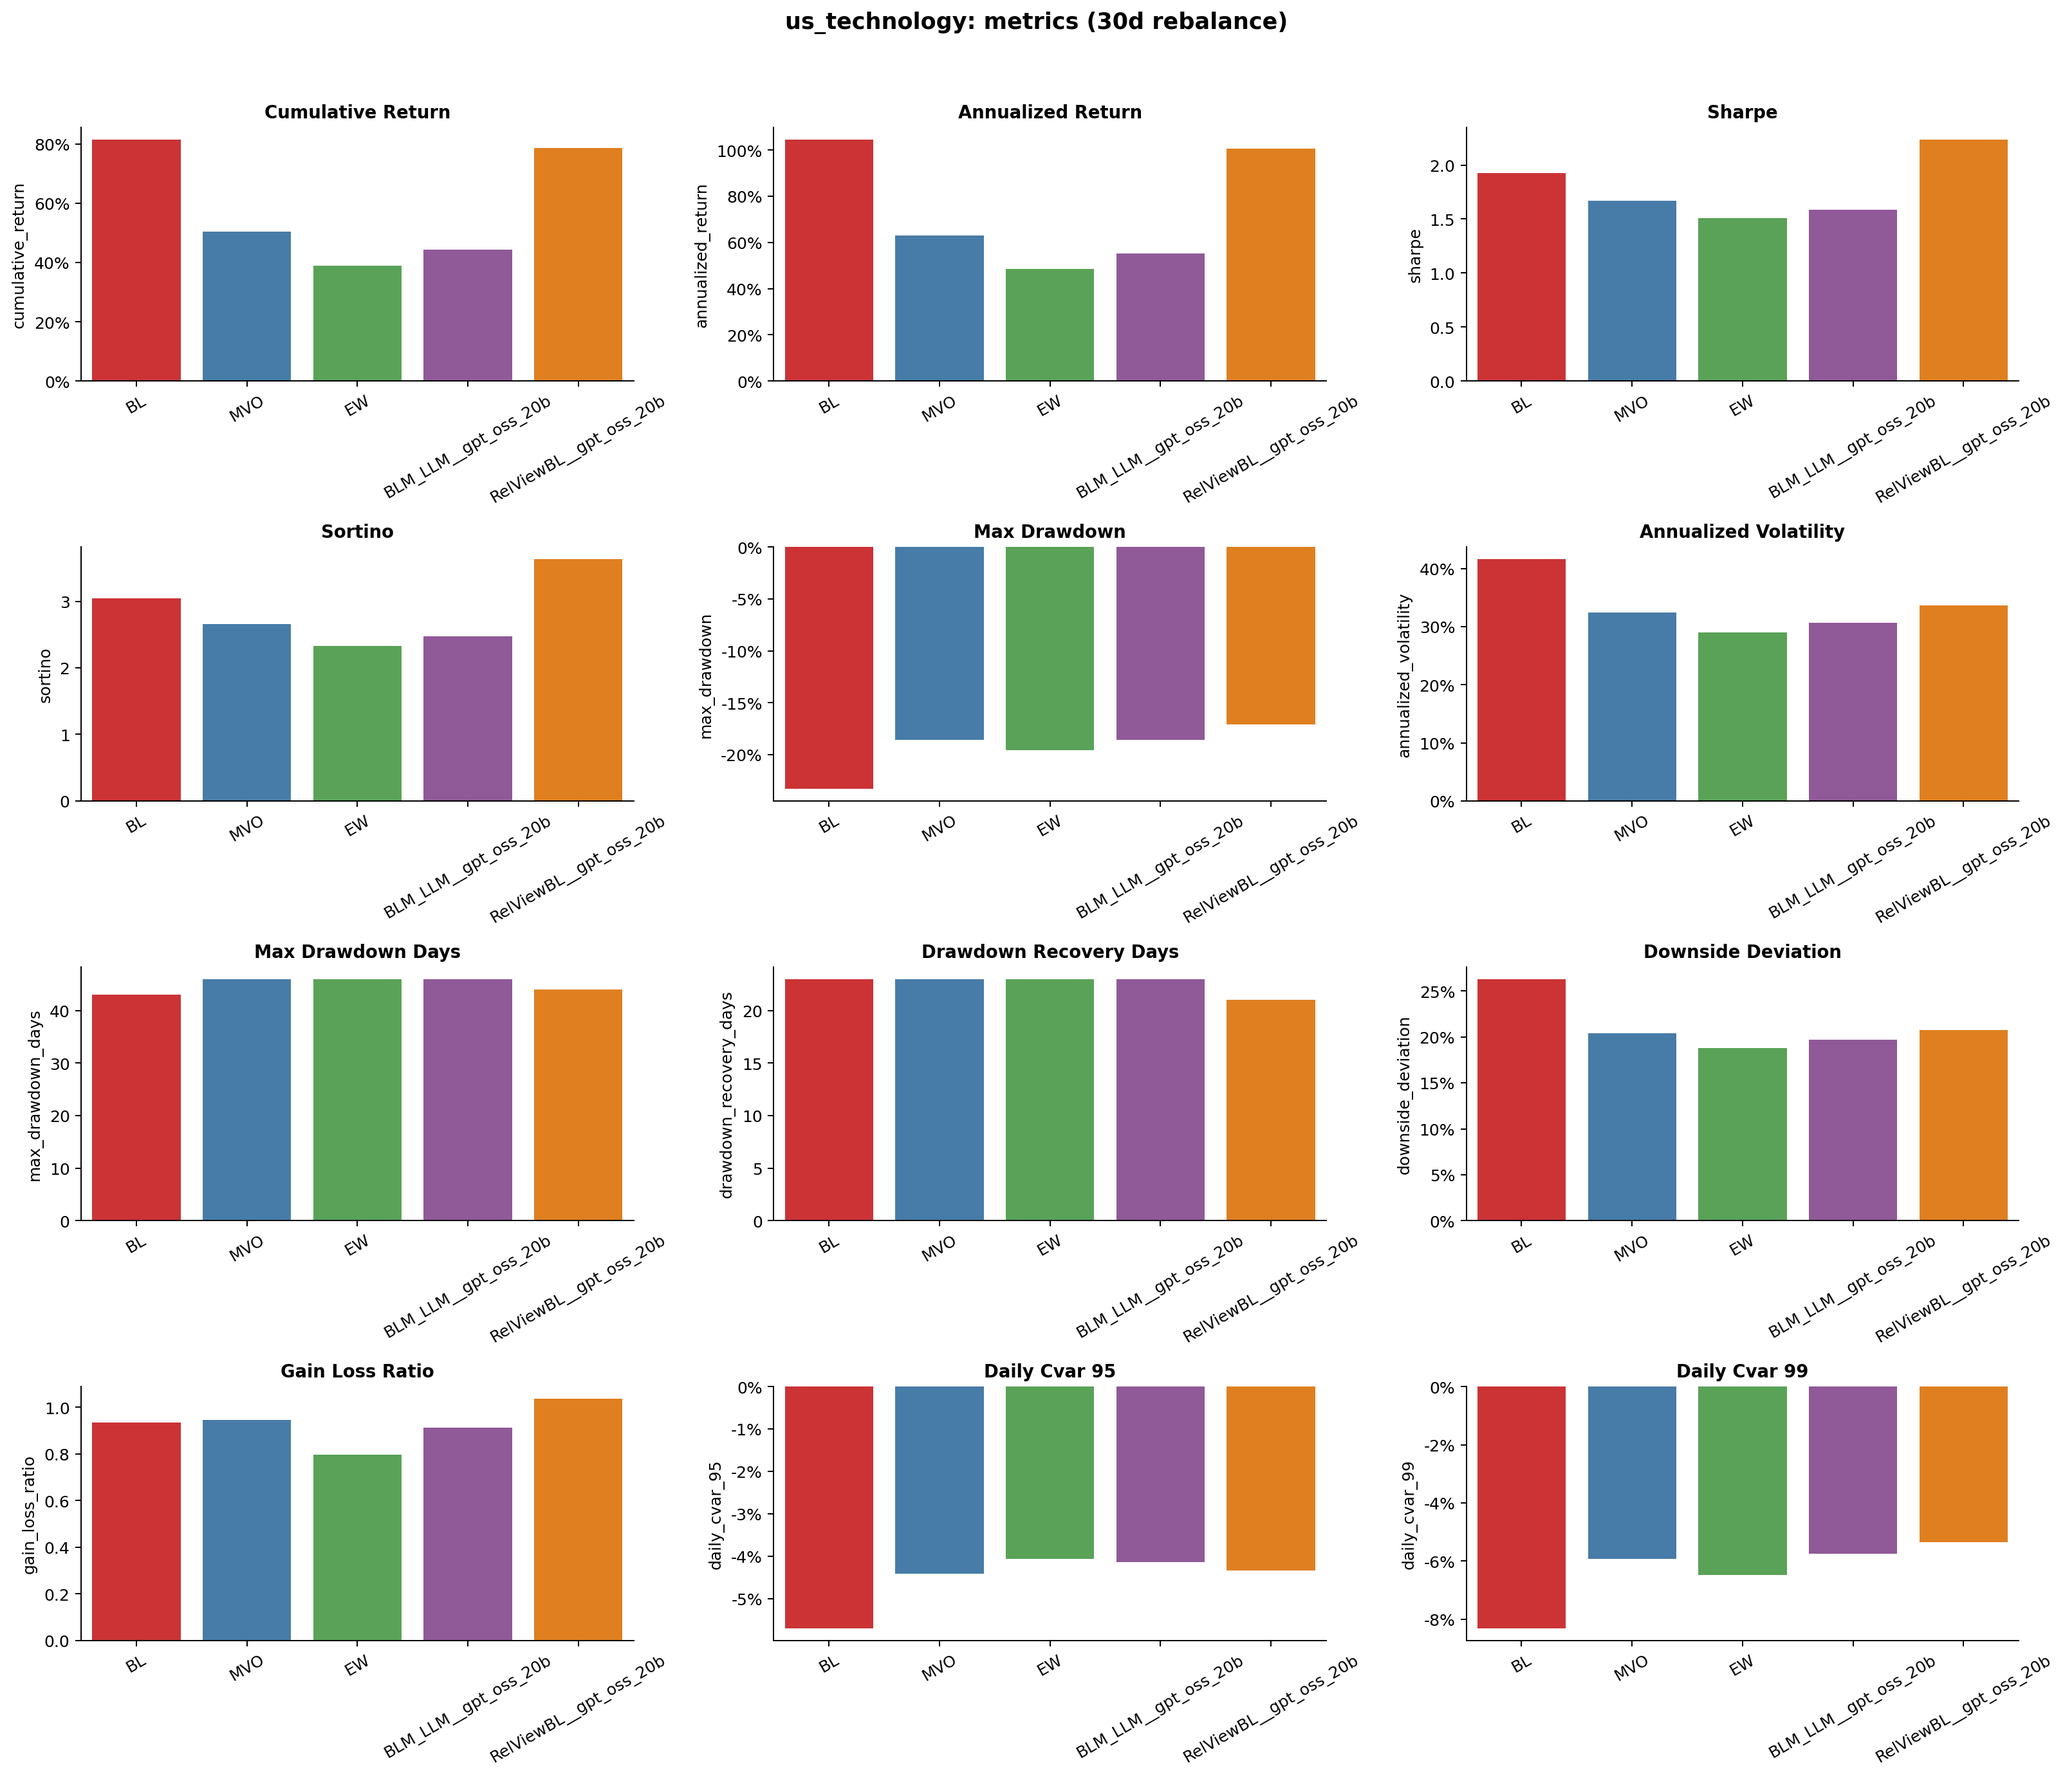
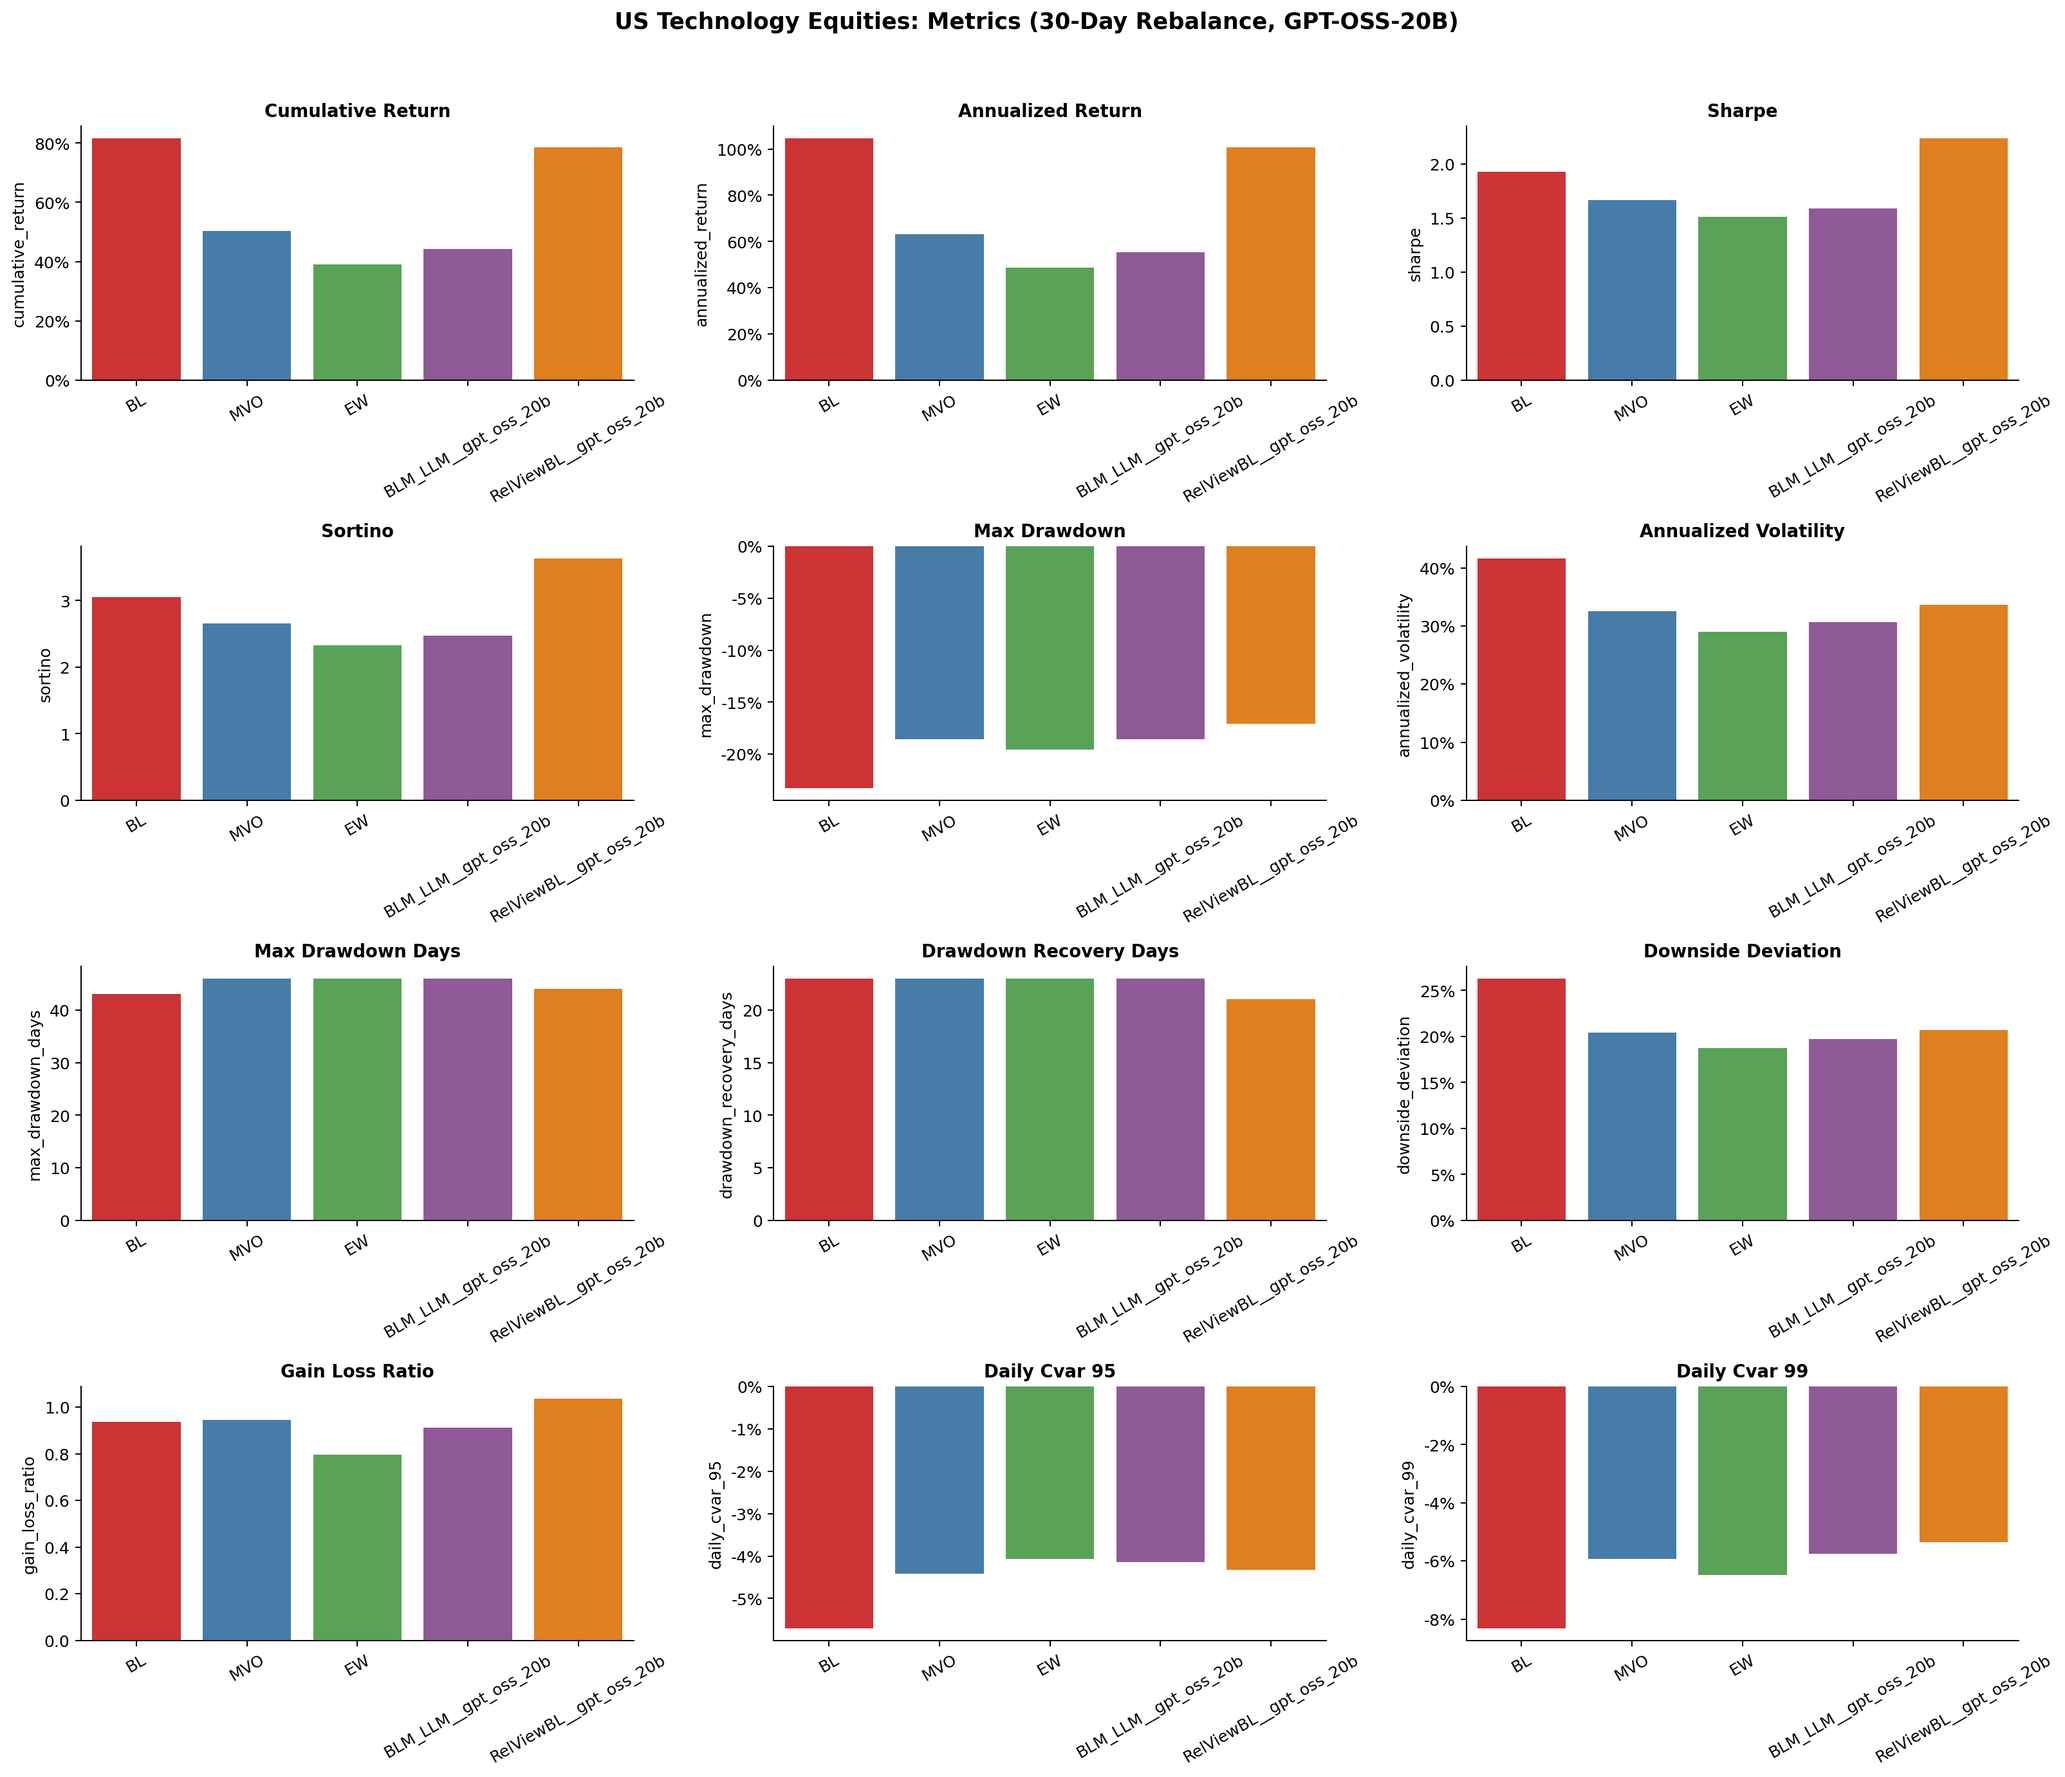
Standardize walkforward plot titles
Use '<Universe> — <kind> | <N>-Day Rebalance | <Model> | 2025' titles with
readable universe names (US Technology Equities, US Financial Equities,
Cross-Asset ETFs) and a normalized model label (GPT-OSS-20B).

Changed region(s): [[0.3116, 0.0, 0.7167, 0.0311], [0.0, 0.1245, 0.0312, 0.1868]]

diff --git a/run_nvidia_nim_walkforward_2025.py b/run_nvidia_nim_walkforward_2025.py
@@ -746,8 +746,35 @@ def set_model_context(config: Mapping[str, Any]) -> None:
         model = dict(models[0])
         _CONFIG_CACHE["slug"] = str(model.get("slug", ""))
         requested = str(model.get("requested_model", ""))
-        label = requested.split("/")[-1].replace("-instruct", "").replace("-", " ").title()
+        label = requested.split("/")[-1].replace("-instruct", "")
+        tokens = label.replace("-", " ").split()
+        parts = [
+            part.upper()
+            if (part.isalpha() and len(part) <= 4) or part[:1].isdigit()
+            else part.capitalize()
+            for part in tokens
+        ]
+        label = "-".join(parts)
         _CONFIG_CACHE["model_label"] = label or "LLM"
+
+
+def pretty_dataset_label(dataset_id: str) -> str:
+    """Human-readable universe label for titles and captions."""
+    labels = {
+        "us_technology": "US Technology Equities",
+        "us_financials": "US Financial Equities",
+        "cross_asset_etfs": "Cross-Asset ETFs",
+    }
+    return labels.get(dataset_id, dataset_id.replace("_", " ").title())
+
+
+def plot_title(kind: str, dataset_id: str, holding_days: int) -> str:
+    """Standard plot title: '<Universe> — <kind>, <N>-Day Rebalance, 2025'."""
+    model_label = _CONFIG_CACHE.get("model_label") or "LLM"
+    return (
+        f"{pretty_dataset_label(dataset_id)} — {kind} | "
+        f"{holding_days}-Day Rebalance | {model_label} | 2025"
+    )
 
 
 def config_max_weight() -> float:
@@ -792,10 +819,11 @@ def save_holding_results(
     })
 
     model_label = _CONFIG_CACHE.get("model_label") or "LLM"
-    title = f"{dataset_root.name}: {holding_days}-day rebalance NAV ({model_label}, 2025)"
+    dataset_label = pretty_dataset_label(dataset_root.name)
+    title = plot_title("Cumulative NAV", dataset_root.name, holding_days)
     plot_nav(daily_nav, title, hp_dir / "nav.png", methods)
-    plot_drawdown(daily_nav, f"{dataset_root.name}: {holding_days}-day rebalance drawdown", hp_dir / "drawdown.png", methods)
-    plot_metrics(metrics, f"{dataset_root.name}: metrics ({holding_days}d rebalance)", hp_dir / "metrics.png")
+    plot_drawdown(daily_nav, plot_title("Drawdown", dataset_root.name, holding_days), hp_dir / "drawdown.png", methods)
+    plot_metrics(metrics, f"{dataset_label}: Metrics ({holding_days}-Day Rebalance, {model_label})", hp_dir / "metrics.png")
 
     assets = result["assets"]
     if not weights.empty:
@@ -806,7 +834,7 @@ def save_holding_results(
         )
         plot_weight_heatmap(
             labeled,
-            f"{dataset_root.name}: weights per rebalance ({holding_days}d)",
+            plot_title("Portfolio Weights", dataset_root.name, holding_days),
             hp_dir / "weights_heatmap.png",
             assets,
         )
